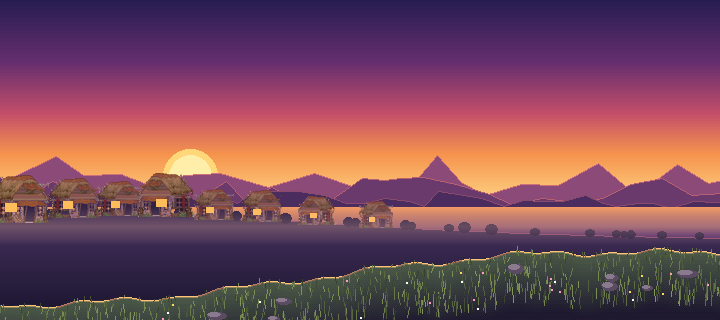
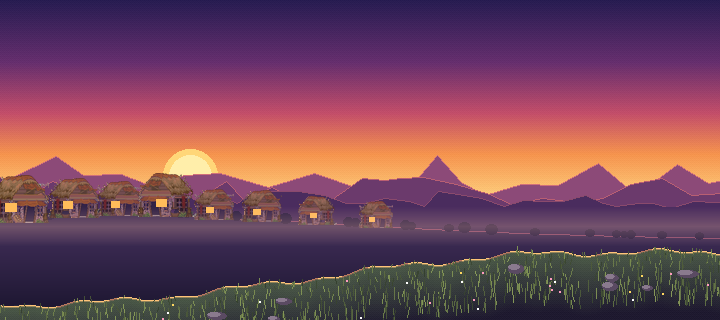
fix menu visual

Changed region(s): [[0.3056, 0.625, 1.0, 0.75], [0.2444, 0.6562, 0.275, 0.6875], [0.0611, 0.625, 0.0917, 0.6562]]

diff --git a/app/src/main/java/engine/TitleScene.java b/app/src/main/java/engine/TitleScene.java
@@ -110,24 +110,6 @@ public final class TitleScene {
       // свечение солнца (3 кадра пульсации)
       int gf = (int) ((Math.sin(t * 1.3) + 1) * 1.49);
       clipDraw(g, glow, SUN_X - 100, SUN_Y - 100, gf * 200, 200, 200);
-      // дорожка солнца на воде
-      java.util.Random rr = new java.util.Random((long) (t * 6));
-      for (int y = 208; y < 238; y += 2) {
-         float v = (y - 208) / 30f;
-         int w = (int) (5 + 14 * v + rr.nextFloat() * 6 - 3);
-         int a = (int) (200 * (1 - v * 0.7f));
-         g.fillRectArgb(SUN_X - w, y, w * 2, 1, (a << 24) | 0xFFE296);
-      }
-      for (int i = 0; i < 36; i++) {
-         java.util.Random q = new java.util.Random(i * 31L);
-         float x = q.nextFloat() * 720 - 240;
-         float y = 208 + q.nextFloat() * 28;
-         float ph = (t * 0.8f + q.nextFloat() * 6) % 3;
-         if (ph < 1f) {
-            int ln = (int) (4 + 6 * ph);
-            g.fillRectArgb((int) x - ln, (int) y, ln * 2, 1, ((int) (120 * (1 - ph)) << 24) | 0xFFDCAA);
-         }
-      }
       // мерцающие окна
       for (int i = 0; i < WINS.length; i++) {
          float fl = 0.5f + 0.5f * (float) Math.sin(t * (1.1f + i * 0.37f) + i * 2.1f);
@@ -144,9 +126,6 @@ public final class TitleScene {
       clipDraw(g, couple, COUPLE_X, COUPLE_Y, f * FW, FW, FH);
       petals(g, t, true);
 
-      // боковые поля чуть темнее, как у остальных экранов
-      g.fillRectArgb(-ex, 0, ex, 320, 0x46050314);
-      g.fillRectArgb(240, 0, ex, 320, 0x46050314);
 
       logo(g, t);
       scroll(g, t, items, sel, now);

diff --git a/tools/make_title_scene.py b/tools/make_title_scene.py
@@ -142,7 +142,7 @@ def make_scene():
     LAKE0, LAKE1 = 207, 238
     for y in range(LAKE0, LAKE1):
         v = (y - LAKE0) / (LAKE1 - LAKE0)
-        d.line([(0, y), (BW, y)], fill=(*lerpc(hexc(0xf29a64), hexc(0x55306a), v * 1.1), 255))
+        d.line([(0, y), (BW, y)], fill=(*lerpc(hexc(0x4a2c5e), hexc(0x3b2a52), v), 255))
 
     # дальний берег с деревней Фонзо Тим: пологий холм, на нём настоящие дома игры вдали
     far = [(0, 222), (60, 216), (130, 213), (210, 217), (290, 221), (360, 225), (430, 229), (520, 233), (620, 236), (720, 238)]
